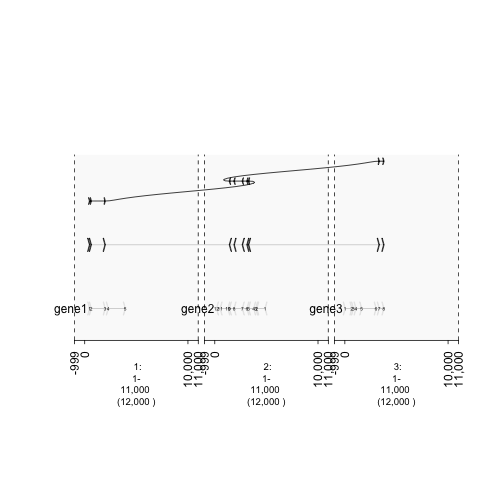
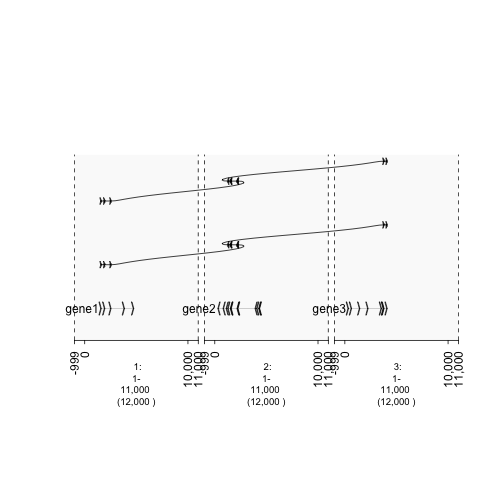
edit vignette

diff --git a/rtdocs/vignetteMutations/vignetteMutations.rst b/rtdocs/vignetteMutations/vignetteMutations.rst
@@ -14,44 +14,24 @@ Vignette Showing How to Graph Mutations
     gene2 = rev(sort(sample(gr.tile(parse.gr('2:1-5e3-'), 50), 12)))
     gene3 = sort(sample(gr.tile(parse.gr('3:1-5e3+'), 50), 8))
     
-    ## Combine into GRangesList
-    grl = GRangesList(gene1 = gene1, gene2 = gene2, gene3 = gene3)
-    gt.genes = gTrack(grl)
-    
-    ## Subset GRangesList and plot but, connect ranges using draw.paths
-    fusion = GRangesList(c(grl$gene1[1:3], grl$gene2[5:9], grl$gene3[7:8]))
-    gt.fusion = gTrack(fusion, draw.paths = TRUE)
-
-
-.. sourcecode:: r
-    
-
-    plot(c(gt.fusion, gt.genes))
-
-.. figure:: figure/-plotPaths-1.png
-    :alt: plot of chunk -plotPaths
-
-    plot of chunk -plotPaths
-
-**Add Exons by gr.labelfield**
-
-
-.. sourcecode:: r
-    
-
     ##Create a column that keeps track of the exons
     
     gene1$exon = 1:length(gene1)
     gene2$exon = 1:length(gene2)
     gene3$exon = 1:length(gene3)
     
+    ## Combine into GRangesList
     grl = GRangesList(gene1 = gene1, gene2 = gene2, gene3 = gene3)
-    gt.genes = gTrack(grl, col = 'gray90', gr.labelfield = 'exon')
+    
+    gt.genes = gTrack(grl)
+    
+    ## Plot but, connect ranges using draw.paths
     fusion = GRangesList(c(grl$gene1[1:3], grl$gene2[5:9], grl$gene3[7:8]))
-    gt.fusion = gTrack(fusion, draw.paths = FALSE)
-    gt.fusion.o = gTrack(fusion, draw.paths = TRUE)
+    gt.fusion = gTrack(fusion, draw.paths = TRUE, gr.labelfield = 'exon')
+    gt.fusion.o = gTrack(fusion, draw.paths = TRUE, gr.labelfield = 'exon')
+    
+    
     win = parse.gr(c('1:1-1e4', '2:1-1e4', '3:1-1e4'))
-
 
 
 .. sourcecode:: r
@@ -64,7 +44,7 @@ Vignette Showing How to Graph Mutations
 
     plot of chunk -plotList
 
-**Example of How to Graph Variants** 
+**Example of How to Graph Fake Variants** 
 
 
 .. sourcecode:: r
@@ -76,45 +56,45 @@ Vignette Showing How to Graph Mutations
     
     ## Choose 5 random indices 
     hotspots = sample(length(tiles), 5)
-    ##Create numeric vector representing each range in GRanges object. 
-    prob = rep(1, length(tiles))
-    ## Simulate hotspots by adding 50 to those random indices.
-    prob[hotspots] = prob[hotspots] + 50
     
-    ## randomly select 2000 sequences. Probability of choosing variants is high.
-    mut = sample(tiles, 2000, prob = prob)
-    gt.mut = gTrack(mut, circle = TRUE, stack.gap = 100)
-    win = si2gr(fake.genome)
-
-
-
-.. sourcecode:: r
-    
-
-    plot(gt.mut, win)
-
-.. figure:: figure/mutations-plot-1.png
-    :alt: plot of chunk mutations-plot
-
-    plot of chunk mutations-plot
+    d = values(distanceToNearest(tiles, tiles[hotspots]))$distance
+    prob = .05 + exp(-d^2/10000)
 
 
 .. sourcecode:: r
     
 
     mut = sample(tiles, 2000, prob = prob, replace = TRUE) 
-    gt.mut = gTrack(mut, circle = TRUE, stack.gap = 100)
+    
+    win = si2gr(fake.genome)
+    
+    gt.mut0 = gTrack(mut, circle = TRUE, stack.gap = 0)
+    gt.mut2 = gTrack(mut, circle = TRUE, stakc.gap = 2)
+
+
+::
+
+    ## Error in gTrack(mut, circle = TRUE, stakc.gap = 2): unused argument (stakc.gap = 2)
+
+
+.. sourcecode:: r
+    
+
+    gt.mut10 = gTrack(mut, circle = TRUE, stack.gap = 10)
+    gt.mut50 = gTrack(mut, circle = TRUE, stack.gap = 50)
 
 
 
 .. sourcecode:: r
     
 
-    plot(gt.mut, win)
+    plot(c(gt.mut0, gt.mut2, gt.mut10, gt.mut50), win)
 
-.. figure:: figure/mutations2-plot-1.png
-    :alt: plot of chunk mutations2-plot
 
-    plot of chunk mutations2-plot
+::
+
+    ## Error in plot(c(gt.mut0, gt.mut2, gt.mut10, gt.mut50), win): error in evaluating the argument 'x' in selecting a method for function 'plot': Error: object 'gt.mut2' not found
+
+
 
 
